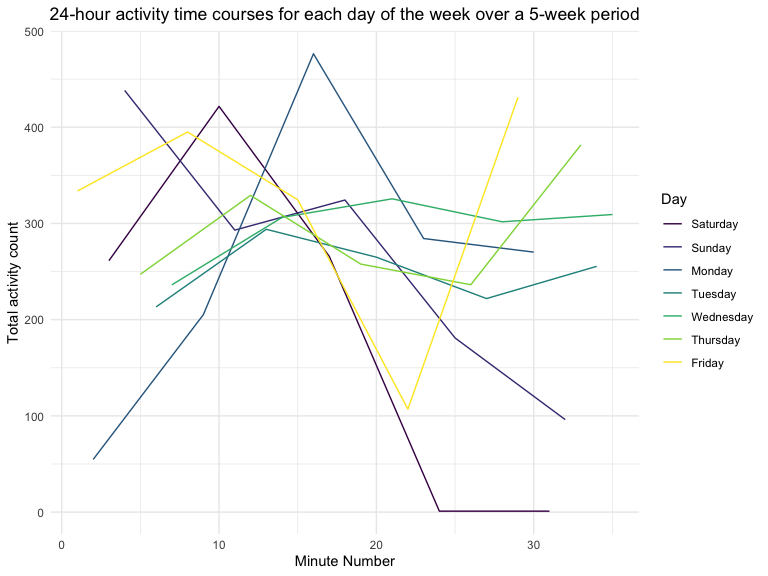
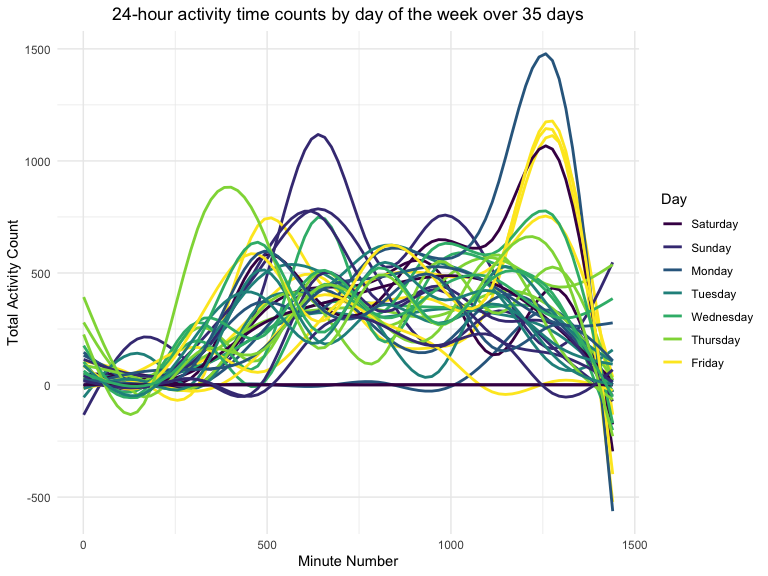
committing final changes to hw#3

diff --git a/p8105_hw3_at3346.md b/p8105_hw3_at3346.md
@@ -3,9 +3,9 @@ p8105\_hw3\_at3346
 Ashley Tseng
 10/14/2019
 
-## Problem 1
+# Problem 1
 
-Load data:
+## Load data:
 
 ``` r
 data("instacart") 
@@ -73,11 +73,10 @@ night.
 
 There are 134 total aisles included in the `instacart` dataset. The
 aisles that the most items are ordered from are “fresh vegetables”
-(150609 orders) and “fresh fruit” (150473 orders).
+(150609 orders) and “fresh fruit” (150473
+orders).
 
-Make a table showing the three most popular items in each of the aisles
-“baking ingredients”, “dog food care”, and “packaged vegetables
-fruits”:
+## Make a plot that shows the number of items ordered in each aisle, limiting this to aisles with more than 10000 items ordered:
 
 ``` r
 n_ordered = n_aisle %>% 
@@ -99,8 +98,7 @@ n_ordered
 
 <img src="p8105_hw3_at3346_files/figure-gfm/prob1.plot1-1.png" width="90%" />
 
-Make a table showing the mean hour of the day at which Pink Lady Apples
-and Coffee Ice Cream are ordered on each day of the week:
+## Make a table showing the three most popular items in each of the aisles “baking ingredients”, “dog food care”, and “packaged vegetables fruits”:
 
 ``` r
 table_popitems = instacart %>% 
@@ -119,20 +117,20 @@ table_popitems %>%
   knitr::kable()
 ```
 
-| Aisle                      | Product Name                                  | Number of Times Ordered |
-| :------------------------- | :-------------------------------------------- | ----------------------: |
-| Packaged Vegetables Fruits | Organic Baby Spinach                          |                    9784 |
-| Packaged Vegetables Fruits | Organic Raspberries                           |                    5546 |
-| Packaged Vegetables Fruits | Organic Blueberries                           |                    4966 |
-| Baking Ingredients         | Light Brown Sugar                             |                     499 |
-| Baking Ingredients         | Pure Baking Soda                              |                     387 |
-| Baking Ingredients         | Cane Sugar                                    |                     336 |
-| Dog Food Care              | Snack Sticks Chicken & Rice Recipe Dog Treats |                      30 |
-| Dog Food Care              | Organix Chicken & Brown Rice Recipe           |                      28 |
-| Dog Food Care              | Small Dog Biscuits                            |                      26 |
+| Aisle                        | Product Name                                    |                           Number of Times Ordered |
+| :--------------------------- | :---------------------------------------------- | ------------------------------------------------: |
+| Packaged Vegetables Fruits   | Organic Baby Spinach                            |                                              9784 |
+| Packaged Vegetables Fruits   | Organic Raspberries                             |                                              5546 |
+| Packaged Vegetables Fruits   | Organic Blueberries                             |                                              4966 |
+| Baking Ingredients           | Light Brown Sugar                               |                                               499 |
+| Baking Ingredients           | Pure Baking Soda                                |                                               387 |
+| Baking Ingredients           | Cane Sugar                                      |                                               336 |
+| Dog Food Care                | Snack Sticks Chicken & Rice Recipe Dog Treats   |                                                30 |
+| Dog Food Care                | Organix Chicken & Brown Rice Recipe             |                                                28 |
+| Dog Food Care                | Small Dog Biscuits                              |                                                26 |
+| The three most popular items | in each of the aisles are shown in the table in | descending order (most popular to least popular). |
 
-Make a table showing the mean hour of the day at which Pink Lady Apples
-and Coffee Ice Cream are ordered on each day of the week:
+## Make a table showing the mean hour of the day at which Pink Lady Apples and Coffee Ice Cream are ordered on each day of the week:
 
 ``` r
 table_meanhr = instacart %>% 
@@ -175,9 +173,9 @@ table_meanhr %>%
 | Coffee Ice Cream | 1:46 pm | 2:19 pm  | 3:23 pm  | 3:19 pm   | 3:13 pm  | 12:16 pm | 1:50 pm  |
 | Pink Lady Apples | 1:26 pm | 11:22 am | 11:04 am | 2:15 pm   | 11:33 am | 12:47 pm | 11:56 am |
 
-## Problem 2
+# Problem 2
 
-Data cleaning:
+## Data cleaning:
 
 ``` r
 data("brfss_smart2010") 
@@ -214,8 +212,7 @@ brfss_smart2010 = brfss_smart2010 %>%
   mutate(response = ordered(response, c("Poor", "Fair", "Good", "Very good", "Excellent")))
 ```
 
-In 2002, which states were observed at 7 or more locations? What about
-in 2010?
+## In 2002, which states were observed at 7 or more locations? What about in 2010?
 
 ``` r
 seven_2002 = brfss_smart2010 %>% 
@@ -242,9 +239,10 @@ seven_2010 = brfss_smart2010 %>%
 
 In 2002, CT, FL, MA, NC, NJ, and PA were observed at 7 or more
 locations. In 2010, CA, CO, FL, MA, MD, NC, NE, NJ, NY, OH, PA, SC, TX,
-and WA were observed at 7 or more locations.
+and WA were observed at 7 or more
+locations.
 
-Make a “spaghetti” plot of this average value over time within a state:
+## Make a “spaghetti” plot of this average value over time within a state:
 
 ``` r
 spaghetti = brfss_smart2010 %>% 
@@ -270,9 +268,7 @@ spaghetti
 
 <img src="p8105_hw3_at3346_files/figure-gfm/prob2.3.plot1-1.png" width="90%" />
 
-Make a two-panel plot showing, for the years 2006, and 2010,
-distribution of data\_value for responses (“Poor” to “Excellent”) among
-locations in NY State:
+## Make a two-panel plot showing, for the years 2006, and 2010, distribution of data\_value for responses (“Poor” to “Excellent”) among locations in NY State:
 
 ``` r
 two_panel_scat = brfss_smart2010 %>% 
@@ -308,9 +304,9 @@ two_panel_scat
 
 <img src="p8105_hw3_at3346_files/figure-gfm/prob2.plot2-1.png" width="90%" />
 
-## Problem 3
+# Problem 3
 
-Load, tidy, and wrangle data:
+## Load, tidy, and wrangle data:
 
 ``` r
 accel_data = 
@@ -340,16 +336,15 @@ accel_data =
 
 The `accel_data` dataset contains 50400 observations and 7 variables.
 The 7 variables in the dataset are `week`, `day_id`, `day`, `weekend`,
-`weekday`, `activity_minute_num`, and `activity_counts`.
+`weekday`, `activity_minute_num`, and
+`activity_counts`.
 
-Aggregate accross minutes to create a total activity variable for each
-day, and create a table showing these totals:
+## Aggregate accross minutes to create a total activity variable for each day, and create a table showing these totals:
 
 ``` r
 tot_act = accel_data %>% 
   group_by(week, day_id, day) %>% 
-  summarize (total_min = sum(activity_counts)) %>%
-  select(week, day_id, day, total_min)
+  summarize (total_min = sum(activity_counts))
 
 knitr::kable(tot_act)
 ```
@@ -394,7 +389,7 @@ knitr::kable(tot_act)
 
 ``` r
 trends_wk = tot_act %>% 
-  ggplot(aes(x = day, y = total_min, color = week)) + 
+  ggplot(aes(x = day, y = total_min, color = week, group = week)) + 
   geom_point() +
   geom_smooth(se = FALSE) +
   facet_grid(~week) +
@@ -404,8 +399,16 @@ trends_wk = tot_act %>%
     y = "Total activity per day (min)") +
   theme(axis.text.x = element_text(angle = 90, hjust = 1))
 
+trends_wk
+```
+
+    ## `geom_smooth()` using method = 'loess' and formula 'y ~ x'
+
+<img src="p8105_hw3_at3346_files/figure-gfm/prob3.table1-1.png" width="90%" />
+
+``` r
 trends_day = tot_act %>% 
-  ggplot(aes(x = week, y = total_min, color = day)) + 
+  ggplot(aes(x = week, y = total_min, color = day, group = day)) + 
   geom_point() +
   geom_smooth(se = FALSE) +
   facet_grid(~day) +
@@ -413,29 +416,34 @@ trends_day = tot_act %>%
     title = "Total daily activity over 5 weeks",
     x = "Week",
     y = "Total activity per day (min)") 
+
+trends_day
 ```
 
+    ## `geom_smooth()` using method = 'loess' and formula 'y ~ x'
+
+<img src="p8105_hw3_at3346_files/figure-gfm/prob3.table1-2.png" width="90%" />
 Overall, there doesn’t seem to be any trends apparent. If we want to
 examine for trends by week, for weeks 1 and 2, the total activity per
 day (in minutes) is lowest on Mondays, then gradually increases
 throughout the week into the weekend. In week 3, the total activity per
 day (in minutes) remains relatively consistent on all days of the week
 except for Monday, which has the highest total daily activity. For weeks
-4 and 5, there is the lowest total daily activity on the weekends.
+4 and 5, there is the lowest total daily activity on the
+weekends.
 
-Make a single-panel plot that shows the 24-hour activity time courses
-for each day and use color to indicate day of the week:
+## Make a single-panel plot that shows the 24-hour activity time courses for each day and use color to indicate day of the week:
 
 ``` r
 avg_accel_data = accel_data %>% 
-  group_by(week, day_id, day) %>% 
+  group_by(day_id, day, activity_minute_num) %>% 
   summarize(avg_ct = mean(activity_counts)) %>% 
-  ggplot(aes(x = day_id, y = avg_ct, color = day)) + 
-  geom_line() +
+  ggplot(aes(x = activity_minute_num, y = avg_ct, group = day_id, color = day)) + 
+  geom_smooth(se = FALSE) +
   labs(
-    title = "24-hour activity time courses for each day of the week over a 5-week period",
+    title = "24-hour activity time counts by day of the week over 35 days",
     x = "Minute Number",
-    y = "Total activity count",
+    y = "Total Activity Count",
     color = "Day") +
   theme(plot.title = element_text(hjust = 0.5),
         legend.position = "right")
@@ -443,7 +451,10 @@ avg_accel_data = accel_data %>%
 avg_accel_data
 ```
 
+    ## `geom_smooth()` using method = 'gam' and formula 'y ~ s(x, bs = "cs")'
+
 <img src="p8105_hw3_at3346_files/figure-gfm/prob3.plot1-1.png" width="90%" />
 On average, the 24-hour time activity increases throughout the day on
-all days except for Sundays. Fridays have the greatest total activity
-count towards the end of the day.
+all days except for one Saturday which has a total activity count of 0.
+On Wednesdays, on average, the total activity count is higher earlier on
+in the day.
